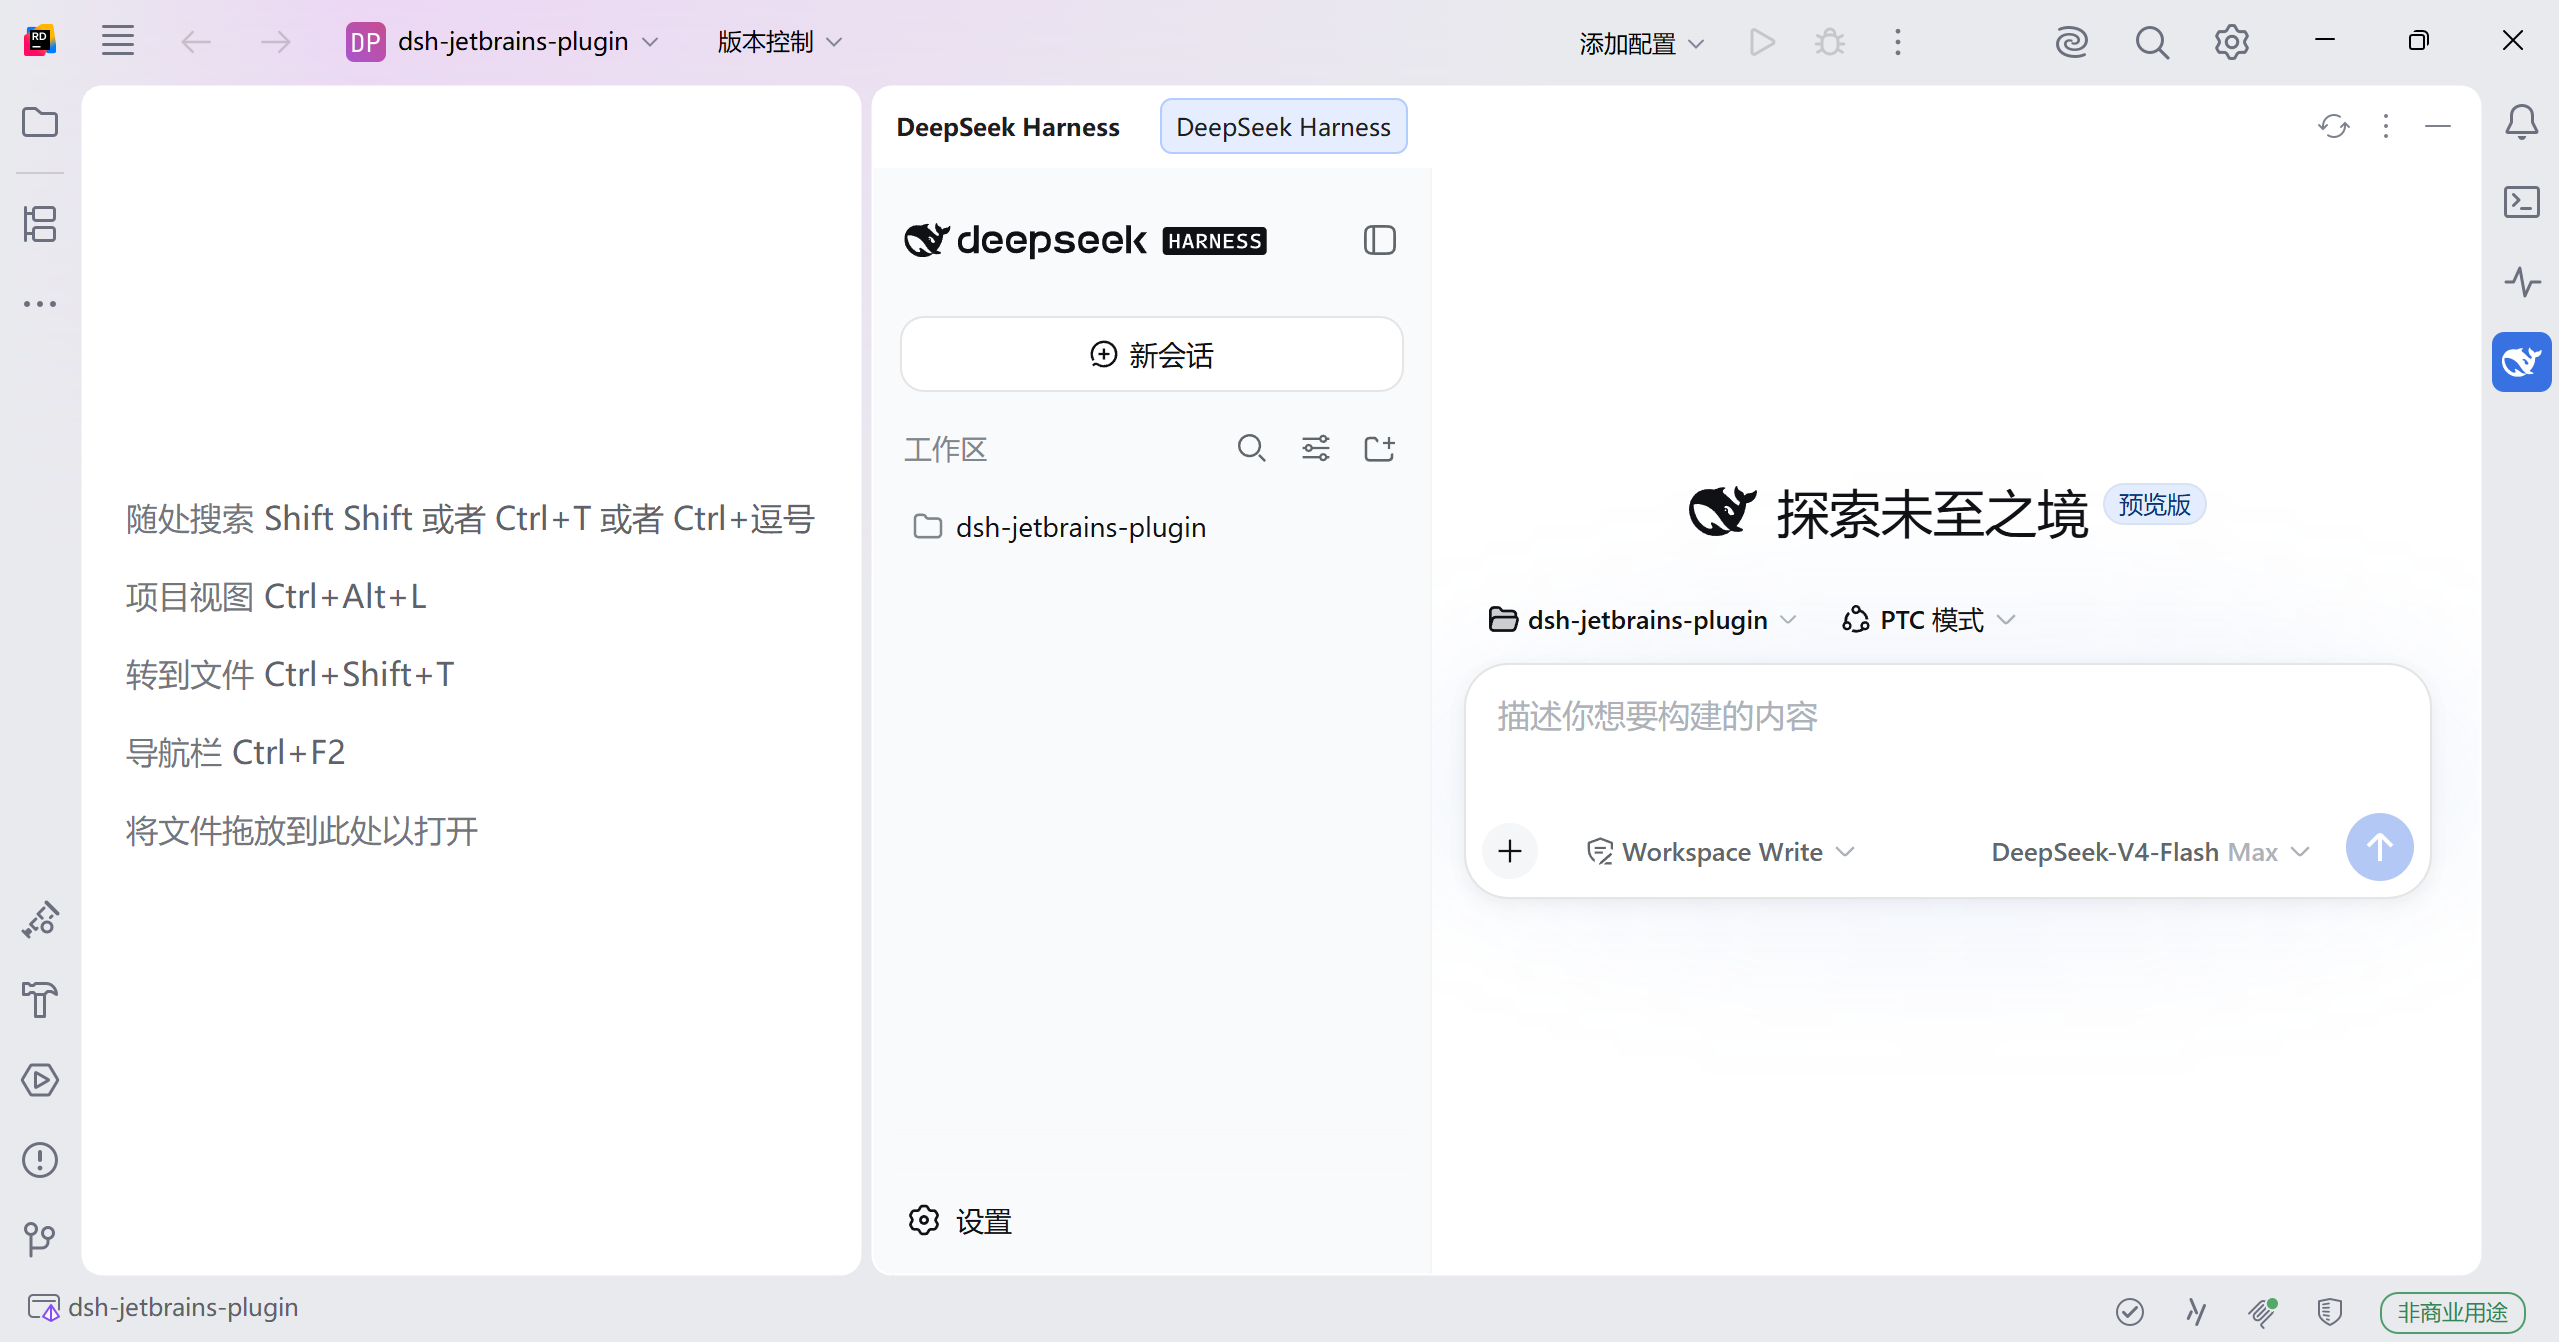
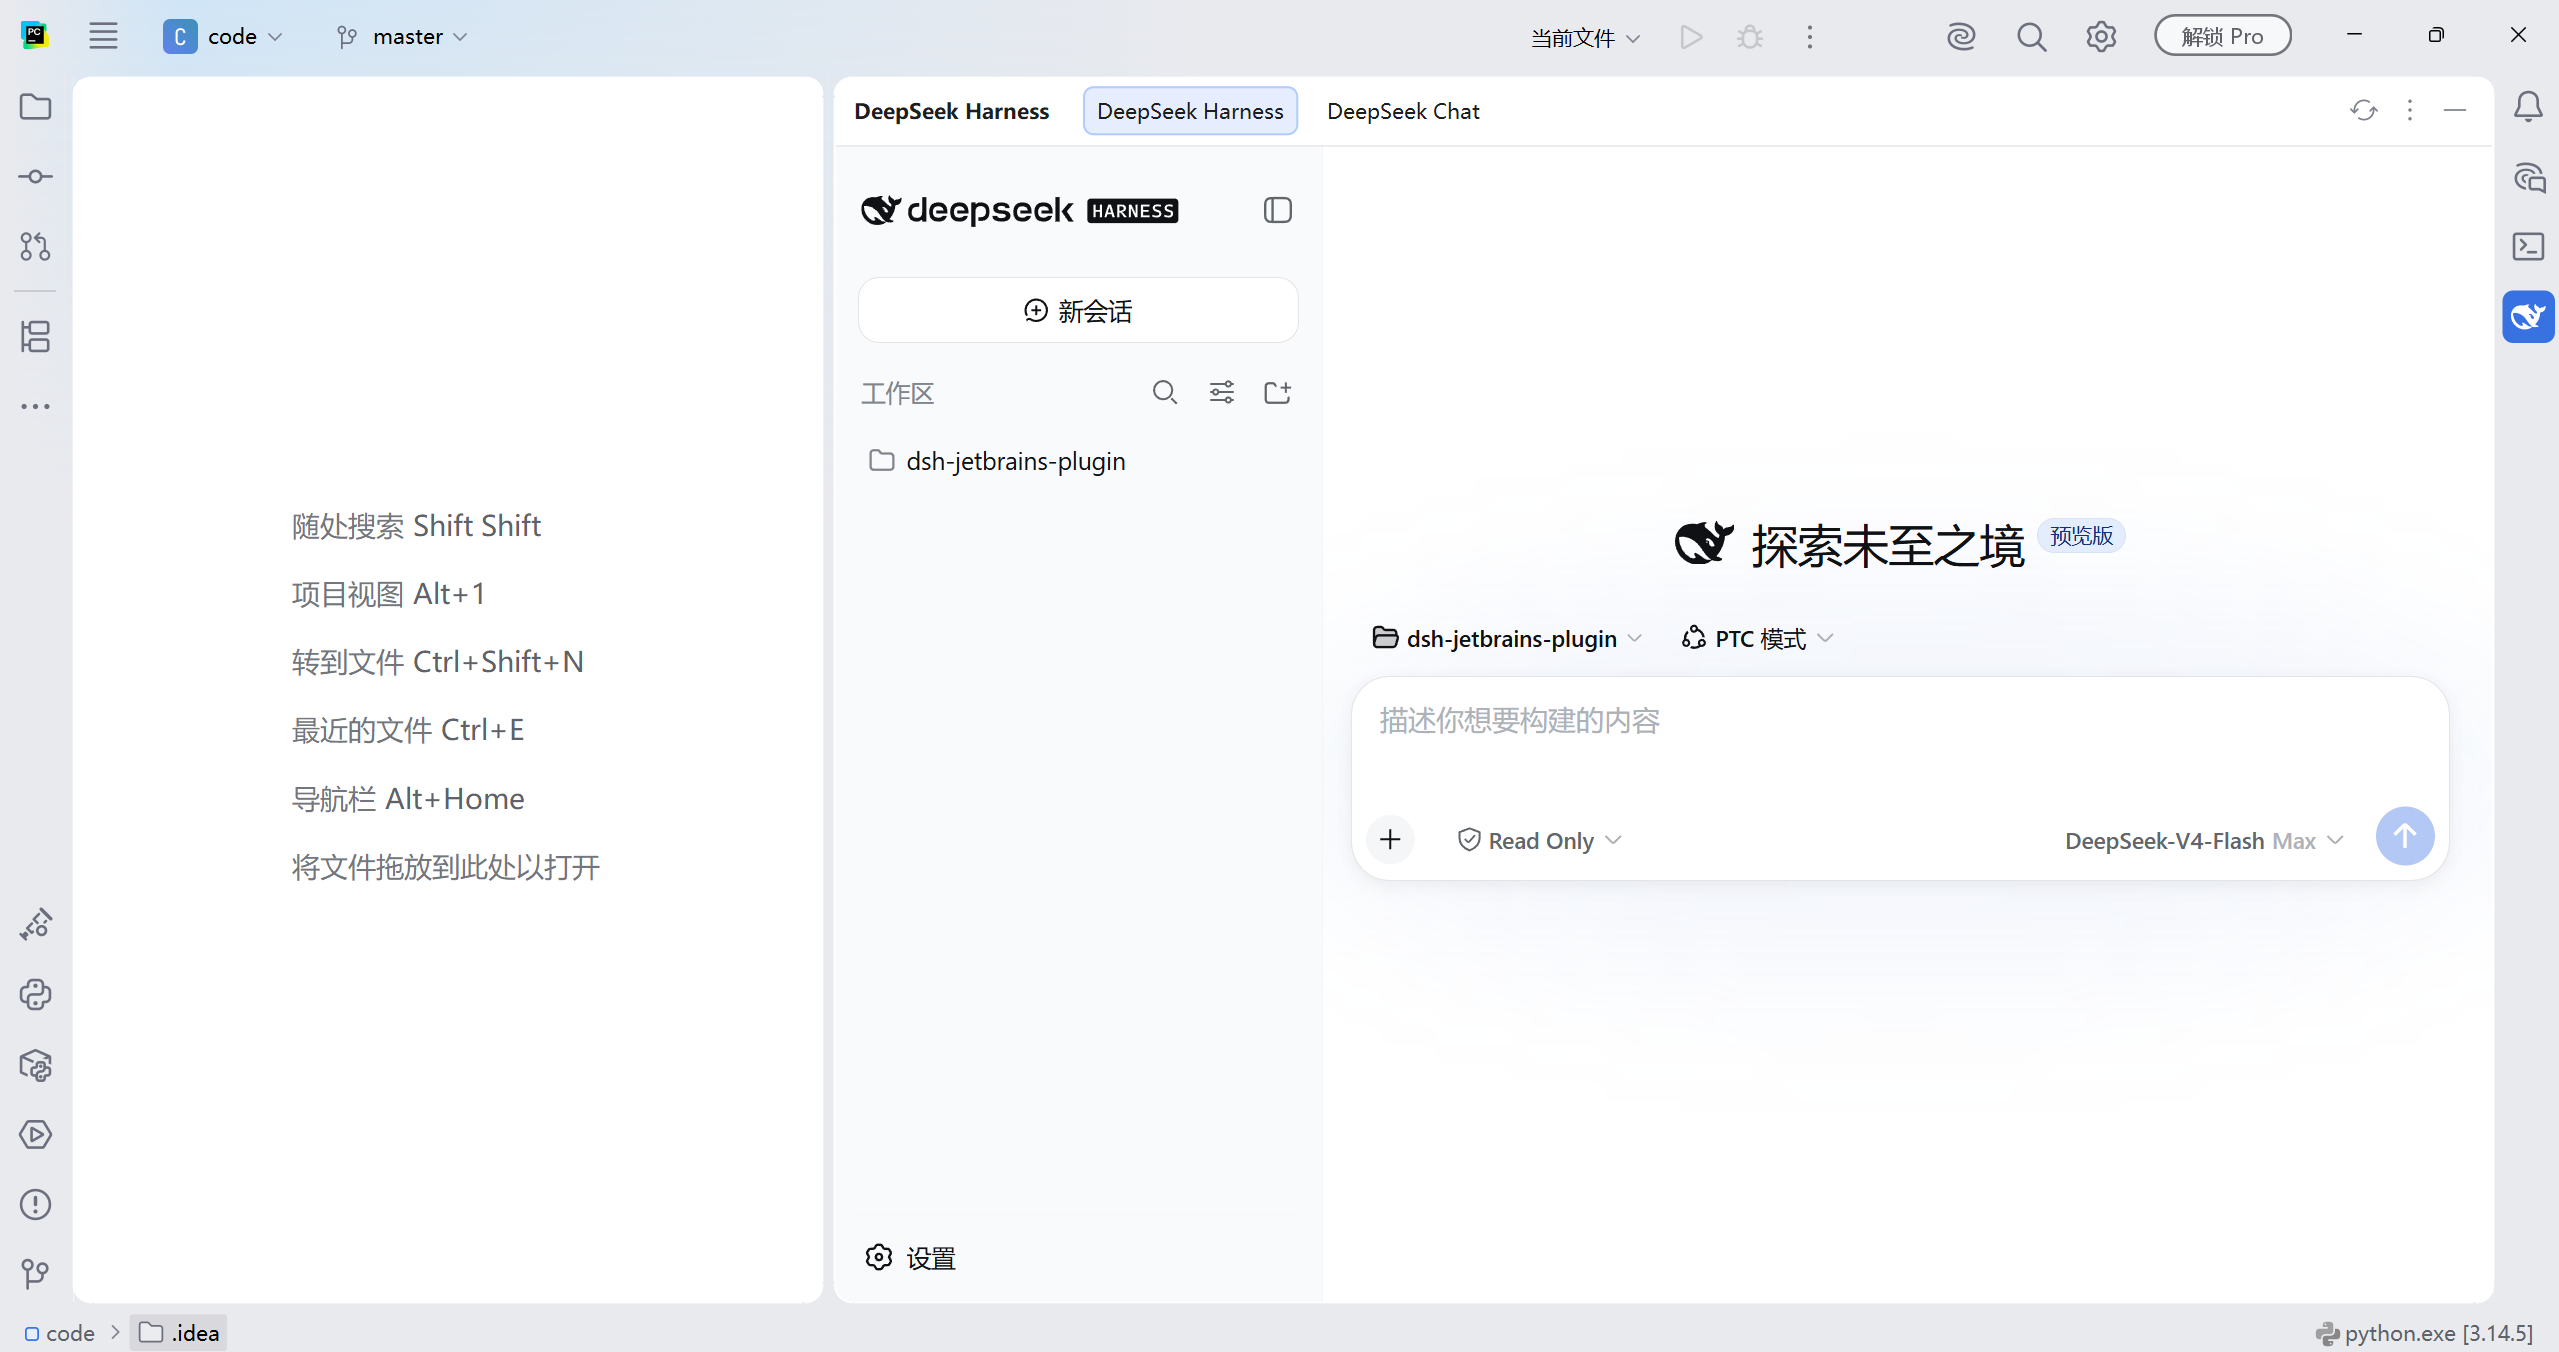
feat: pin DeepSeek Chat tab and bump to 0.2.0
- Pin chat.deepseek.com as a permanent, non-closeable tab next to the WebUI
- Remove the Open DeepSeek Chat header action (globe button)
- Reload action now refreshes the currently active tab (WebUI or DeepSeek Chat)
- Bump version to 0.2.0 with changelog entry
- Update README (zh/en) and screenshots for the pinned chat tab
- Restore since-build to 262 (2026.2+) for the release build

diff --git a/src/dsh/web/plugin/DshWebToolWindowFactory.java b/src/dsh/web/plugin/DshWebToolWindowFactory.java
@@ -5,6 +5,7 @@ import com.intellij.openapi.project.Project;
 import com.intellij.openapi.util.Disposer;
 import com.intellij.openapi.wm.ToolWindow;
 import com.intellij.openapi.wm.ToolWindowFactory;
+import com.intellij.openapi.wm.ToolWindowManager;
 import com.intellij.ui.content.Content;
 import com.intellij.ui.content.ContentFactory;
 import com.intellij.ui.jcef.JBCefBrowser;
@@ -25,6 +26,10 @@ import java.util.concurrent.ConcurrentHashMap;
  * (default {@code http://127.0.0.1:3080}); set it in
  * Help | Edit Custom VM Options, e.g. {@code -Ddsh.web.url=http://127.0.0.1:3080}.
  *
+ * A second tab, "DeepSeek Chat" (chat.deepseek.com), is pinned next to the
+ * WebUI tab: it is always present and cannot be closed. The reload button
+ * always reloads the currently active tab.
+ *
  * Reloading without an IDE restart: the tool-window header shows a reload
  * button and the gear menu offers "Reload Page" (hard reload, cache bypassed) -
  * e.g. after rebuilding/restarting the DSH web server. No keyboard shortcut
@@ -32,19 +37,48 @@ import java.util.concurrent.ConcurrentHashMap;
  */
 public final class DshWebToolWindowFactory implements ToolWindowFactory {
 
+    /** Tool window id, as declared in plugin.xml. */
+    public static final String TOOL_WINDOW_ID = "DeepSeek Harness";
+
     /** System property overriding the Web UI address. */
     public static final String URL_PROPERTY = "dsh.web.url";
 
     /** Default Web UI address (the local DSH web server). */
     public static final String DEFAULT_URL = "http://127.0.0.1:3080";
 
-    /** Project -> live browser, so actions (reload, ...) can reach the page. */
+    /** Address of the DeepSeek web chat, pinned as the second tab. */
+    public static final String CHAT_URL = "https://chat.deepseek.com/";
+
+    /** Display name of the pinned chat tab. */
+    public static final String CHAT_TAB_NAME = "DeepSeek Chat";
+
+    /** Project -> live WebUI browser, so actions (reload, ...) can reach the page. */
     private static final Map<Project, JBCefBrowser> BROWSERS = new ConcurrentHashMap<>();
 
-    /** Returns the live browser of the given project's tool window, if any. */
+    /** Project -> live chat (chat.deepseek.com) browser of the pinned tab. */
+    private static final Map<Project, JBCefBrowser> CHAT_BROWSERS = new ConcurrentHashMap<>();
+
+    /** Returns the live WebUI browser of the given project's tool window, if any. */
     @Nullable
     public static JBCefBrowser browserFor(@Nullable Project project) {
         return project == null ? null : BROWSERS.get(project);
+    }
+
+    /**
+     * Returns the browser of the currently selected tab of the tool window
+     * (the chat tab if it is selected, otherwise the WebUI tab), if any.
+     */
+    @Nullable
+    public static JBCefBrowser activeBrowser(@NotNull Project project) {
+        ToolWindow toolWindow = ToolWindowManager.getInstance(project).getToolWindow(TOOL_WINDOW_ID);
+        if (toolWindow != null) {
+            Content selected = toolWindow.getContentManager().getSelectedContent();
+            JBCefBrowser chat = CHAT_BROWSERS.get(project);
+            if (selected != null && chat != null && selected.getComponent() == chat.getComponent()) {
+                return chat;
+            }
+        }
+        return BROWSERS.get(project);
     }
 
     @Override
@@ -58,7 +92,16 @@ public final class DshWebToolWindowFactory implements ToolWindowFactory {
                 .createContent(browser.getComponent(), "DeepSeek Harness", false);
         toolWindow.getContentManager().addContent(content);
 
-        // Reload entry points: header button, gear menu, global shortcut.
+        // Pinned chat tab: always present next to the WebUI, not closeable.
+        JBCefBrowser chat = new JBCefBrowser(CHAT_URL);
+        CHAT_BROWSERS.put(project, chat);
+        Disposer.register(project, () -> CHAT_BROWSERS.remove(project));
+        Content chatContent = ContentFactory.getInstance()
+                .createContent(chat.getComponent(), CHAT_TAB_NAME, false);
+        chatContent.setCloseable(false);
+        toolWindow.getContentManager().addContent(chatContent);
+
+        // Header button + gear menu: reload the active tab.
         ReloadPageAction reload = new ReloadPageAction();
         toolWindow.setTitleActions(List.of(reload));
         toolWindow.setAdditionalGearActions(new DefaultActionGroup(reload));

diff --git a/src/dsh/web/plugin/ReloadPageAction.java b/src/dsh/web/plugin/ReloadPageAction.java
@@ -3,13 +3,15 @@ package dsh.web.plugin;
 import com.intellij.icons.AllIcons;
 import com.intellij.openapi.actionSystem.AnAction;
 import com.intellij.openapi.actionSystem.AnActionEvent;
+import com.intellij.openapi.project.Project;
 import com.intellij.ui.jcef.JBCefBrowser;
 import org.jetbrains.annotations.NotNull;
 
 /**
- * Hard-reloads the DeepSeek Harness Web UI inside its tool window, bypassing
- * the browser cache, so changes (e.g. after the DSH web server is rebuilt or
- * restarted) show up without restarting the IDE.
+ * Hard-reloads the currently active tab of the DeepSeek Harness tool window
+ * (the WebUI or the DeepSeek Chat tab), bypassing the browser cache, so
+ * changes (e.g. after the DSH web server is rebuilt or restarted) show up
+ * without restarting the IDE.
  *
  * Reachable via the tool-window header button or the gear menu. No keyboard
  * shortcut is bound by default, so no IDE keybinding is taken over; users can
@@ -19,13 +21,17 @@ public final class ReloadPageAction extends AnAction {
 
     public ReloadPageAction() {
         super("Reload Page",
-                "Reload the DeepSeek Harness Web UI, bypassing the cache",
+                "Reload the active DeepSeek Harness tab, bypassing the cache",
                 AllIcons.Actions.Refresh);
     }
 
     @Override
     public void actionPerformed(@NotNull AnActionEvent e) {
-        JBCefBrowser browser = DshWebToolWindowFactory.browserFor(e.getProject());
+        Project project = e.getProject();
+        if (project == null) {
+            return;
+        }
+        JBCefBrowser browser = DshWebToolWindowFactory.activeBrowser(project);
         if (browser != null) {
             browser.getCefBrowser().reloadIgnoreCache();
         }
@@ -33,6 +39,8 @@ public final class ReloadPageAction extends AnAction {
 
     @Override
     public void update(@NotNull AnActionEvent e) {
-        e.getPresentation().setEnabled(DshWebToolWindowFactory.browserFor(e.getProject()) != null);
+        Project project = e.getProject();
+        e.getPresentation().setEnabled(project != null
+                && DshWebToolWindowFactory.activeBrowser(project) != null);
     }
 }

diff --git a/README.en.md b/README.en.md
@@ -9,11 +9,13 @@
 Docks the [DeepSeek Harness](https://github.com/deepseek-ai/deepseek-harness) Web UI into a JetBrains IDE tool window, rendered by the IDE's bundled Chromium (JCEF). The full WebUI — reasoning streams, tool-call trajectory, sessions, permission/preset switching — **lives entirely inside the IDE, hideable like the terminal — no browser tab needed**.
 
 ![01.png](/docs/screenshots/01.png)
+![01.png](/docs/screenshots/02.png)
 
 ## Features
 
 - **Web UI inside the IDE** — the DeepSeek Harness web front-end docked as a standard tool window (right side), with the same look and behavior as the browser version.
-- **Refresh without restarting the IDE** — restart or rebuild the `dsh` server, then click the reload button in the tool-window header (or gear menu → *Reload Page*) to hard-reload the page, bypassing the browser cache. No IDE restart, ever.
+- **DeepSeek Chat pinned tab** — `chat.deepseek.com` is pinned as a permanent second tab next to the WebUI: always present, cannot be closed. No separate browser tab needed for the DeepSeek web chat.
+- **Refresh without restarting the IDE** — restart or rebuild the `dsh` server, then click the reload button in the tool-window header (or gear menu → *Reload Page*) to hard-reload the **currently active tab** (WebUI or DeepSeek Chat), bypassing the browser cache. No IDE restart, ever.
 - **Theme-aware icon** — the tool-window icon adapts automatically to the IDE's light/dark theme.
 
 ## Quick Start
@@ -49,14 +51,14 @@ Leave the terminal running — the server listens on `http://127.0.0.1:3080` by 
 ### 4. Open the tool window — and refresh
 
 1. Open the **DeepSeek Harness** tool window on the right edge of the IDE.
-2. The Web UI loads inside it — the same page you would see in a browser.
-3. Whenever you restart or rebuild the `dsh` server, or the page looks stale: click the **↻ reload button in the tool-window header (top-right)**, or open the gear menu → **Reload Page**. The page hard-reloads (cache bypassed) — no IDE restart needed.
+2. The Web UI loads inside it — the same page you would see in a browser; next to it a **DeepSeek Chat** tab (`chat.deepseek.com`) is pinned (sign in on first use).
+3. Whenever you restart or rebuild the `dsh` server, or the page looks stale: click the **↻ reload button in the tool-window header (top-right)**, or open the gear menu → **Reload Page**. The active tab hard-reloads (cache bypassed) — no IDE restart needed.
 
 ## What's inside
 
 ### Tool window (JCEF)
 
-`DshWebToolWindowFactory` creates a `JBCefBrowser` pointed at the DSH Web UI and docks it into a standard tool window through the platform content manager. The live browser is registered per project, so actions can reach it.
+`DshWebToolWindowFactory` creates a `JBCefBrowser` pointed at the DSH Web UI and docks it into a standard tool window through the platform content manager; next to it, a **DeepSeek Chat** tab (`chat.deepseek.com`) is pinned and cannot be closed. The live browser is registered per project, so actions can reach it.
 
 ### Reload without restart
 

diff --git a/README.md b/README.md
@@ -9,11 +9,13 @@
 将 [DeepSeek Harness](https://github.com/deepseek-ai/deepseek-harness) 的 Web UI 嵌入 JetBrains IDE 的工具窗口，由 IDE 自带的 Chromium（JCEF）渲染。完整的 WebUI —— 推理流、工具调用轨迹、会话、权限/预设切换 —— **全部在 IDE 内部，像终端一样可以随时隐藏/显示，不需要再开一个浏览器标签页**。
 
 ![01.png](/docs/screenshots/01.png)
+![01.png](/docs/screenshots/02.png)
 
 ## 功能特性
 
 - **Web UI 内嵌 IDE** —— DeepSeek Harness 的 Web 前端以标准工具窗口的形式停靠在右侧，与浏览器版本观感、行为完全一致。
-- **无需重启 IDE 即可刷新** —— 重启或重建 `dsh` 服务后，点击工具窗口标题栏的刷新按钮（或齿轮菜单 → *Reload Page*）即可硬刷新页面，绕过浏览器缓存。再也不需要重启 IDE。
+- **DeepSeek Chat 固定标签页** —— `chat.deepseek.com` 固定为 WebUI 旁边的第二个标签页，始终存在、不可关闭；想用 DeepSeek 网页版时无需再开浏览器。
+- **无需重启 IDE 即可刷新** —— 重启或重建 `dsh` 服务后，点击工具窗口标题栏的刷新按钮（或齿轮菜单 → *Reload Page*）即可硬刷新**当前激活的标签页**（WebUI 或 DeepSeek Chat），绕过浏览器缓存。再也不需要重启 IDE。
 - **图标随主题切换** —— 工具窗口图标自动适配 IDE 的深色/浅色主题。
 
 ## 快速开始
@@ -49,14 +51,14 @@ npx @deepseek-ai/dsh web
 ### 4. 打开工具窗口并刷新
 
 1. 在 IDE 右侧边缘打开 **DeepSeek Harness** 工具窗口。
-2. Web UI 会加载进来 —— 与浏览器里看到的是同一个页面。
-3. 每当重启/重建 `dsh` 服务，或页面看起来过期时：点击**工具窗口标题栏右上角的 ↻ 刷新按钮**，或打开齿轮菜单 → **Reload Page**。页面会硬刷新（绕过缓存）——无需重启 IDE。
+2. Web UI 会加载进来 —— 与浏览器里看到的是同一个页面；旁边固定着一个 **DeepSeek Chat** 标签页（`chat.deepseek.com`，首次使用需登录）。
+3. 每当重启/重建 `dsh` 服务，或页面看起来过期时：点击**工具窗口标题栏右上角的 ↻ 刷新按钮**，或打开齿轮菜单 → **Reload Page**。当前激活的标签页会硬刷新（绕过缓存）——无需重启 IDE。
 
 ## 项目内容
 
 ### 工具窗口（JCEF）
 
-`DshWebToolWindowFactory` 创建指向 DSH Web UI 的 `JBCefBrowser`，并通过平台 content manager 将其停靠为标准工具窗口。每个项目的活动浏览器会被注册下来，方便动作（action）访问。
+`DshWebToolWindowFactory` 创建指向 DSH Web UI 的 `JBCefBrowser`，并通过平台 content manager 将其停靠为标准工具窗口；旁边固定一个指向 `chat.deepseek.com` 的 **DeepSeek Chat** 标签页（不可关闭）。每个项目的活动浏览器会被注册下来，方便动作（action）访问。
 
 ### 无需重启的刷新
 
